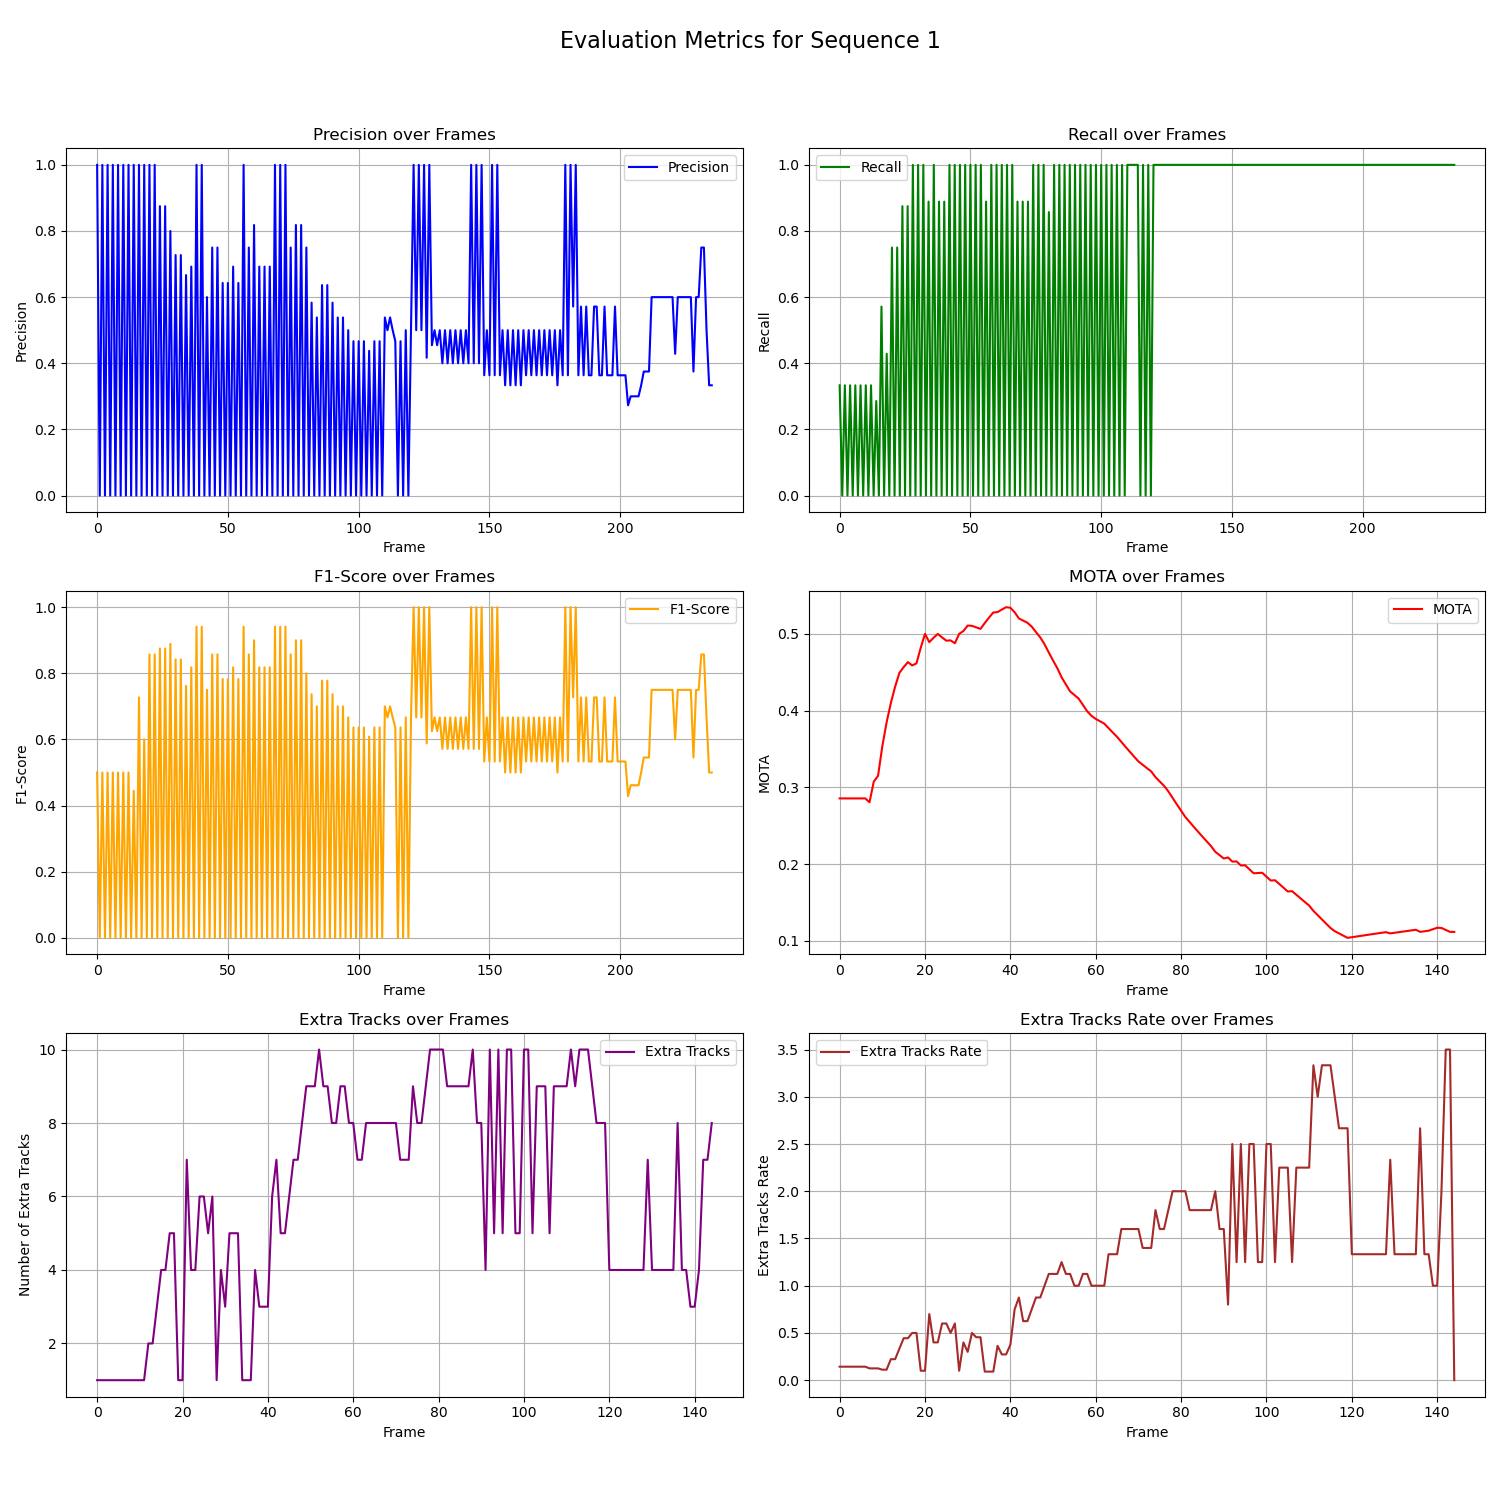
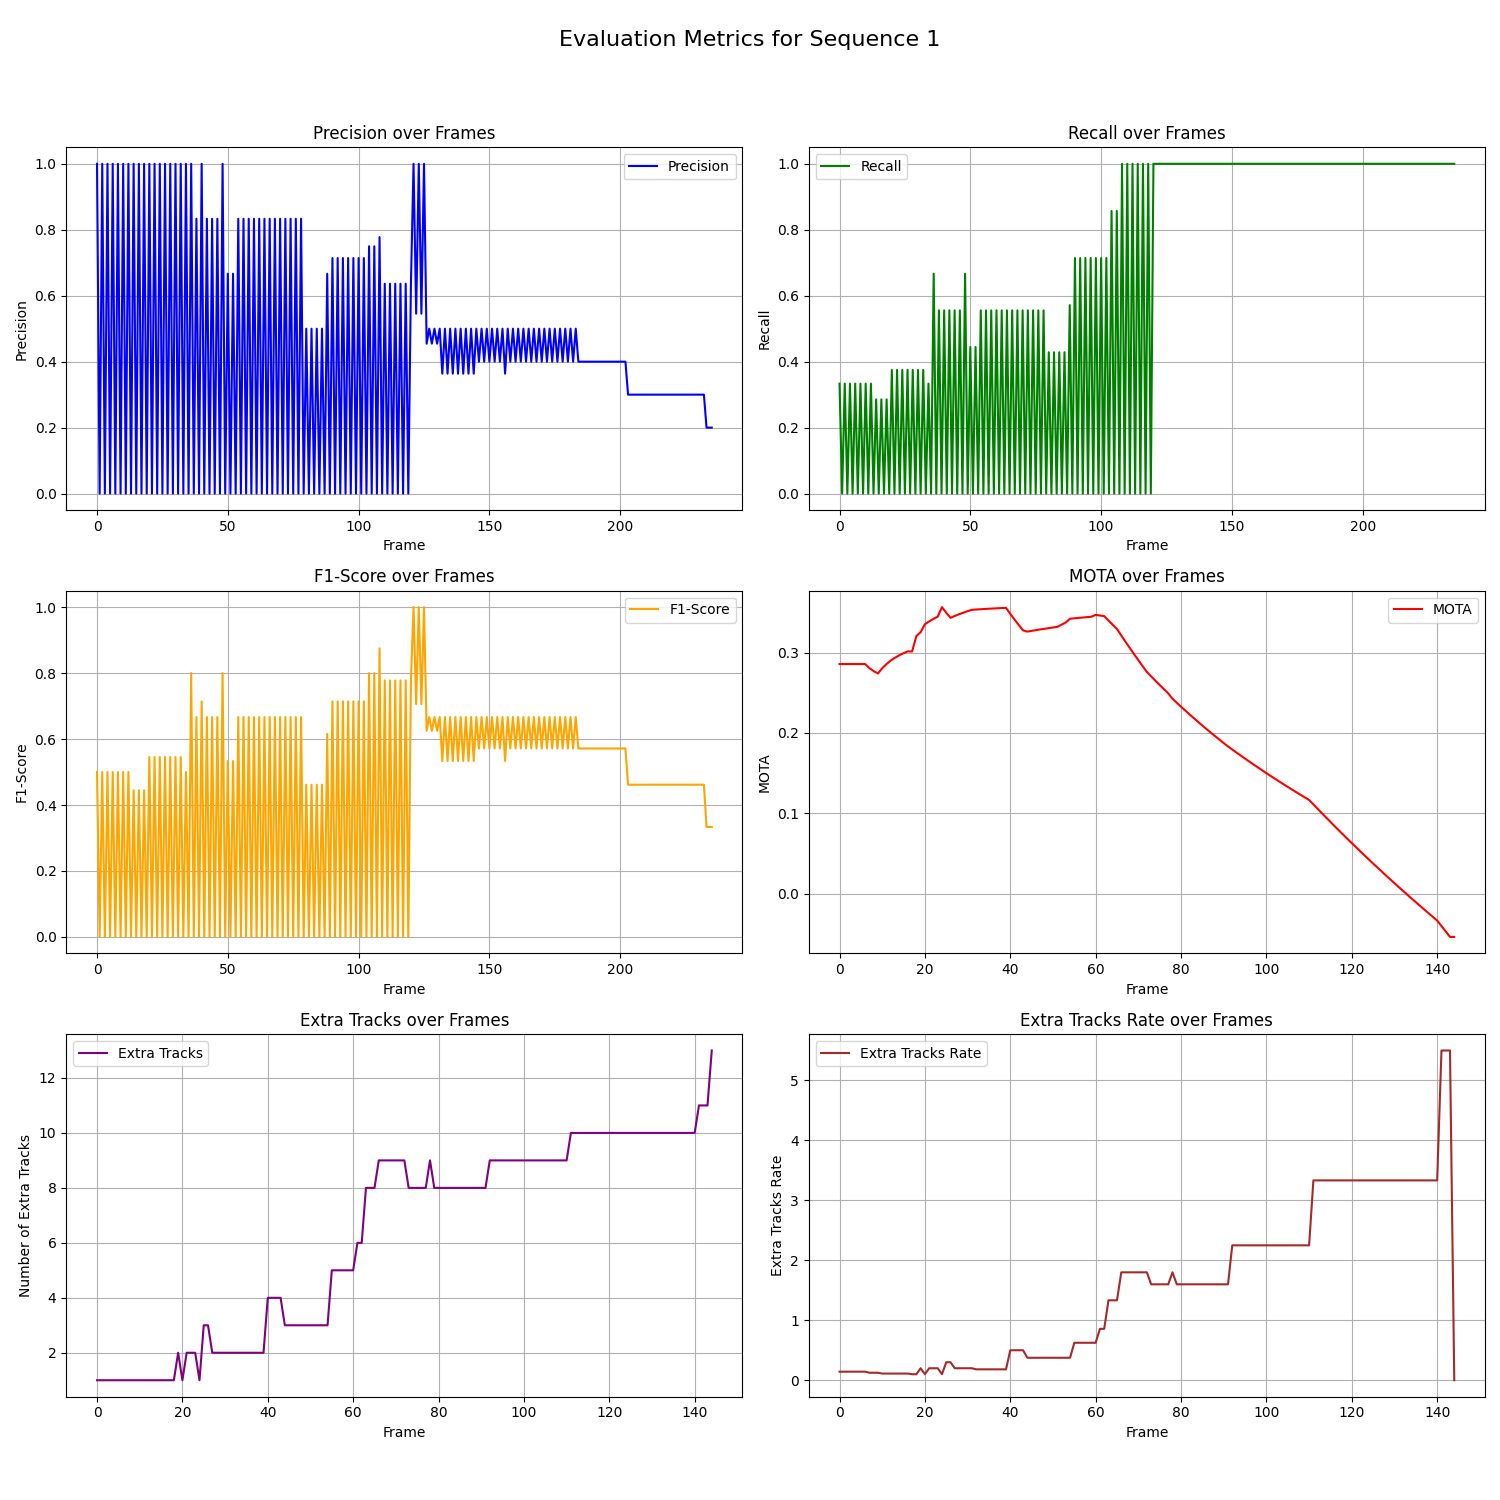
m

diff --git a/main.py b/main.py
@@ -123,8 +123,6 @@ def run(config_path: str) -> None:
 
     # Iterate over each sequence
     for seq_id, frames in data.items():
-        if seq_id == "1":
-            continue
         logger.info(f"Processing sequence {seq_id} with {len(frames)} frames.")
         evaluator.reset()
         tracker_pedastrians.reset()

diff --git a/src/tracking/tune.py b/src/tracking/tune.py
@@ -553,7 +553,7 @@ def main():
     parser.add_argument(
         "--n_trials",
         type=int,
-        default=5000,
+        default=1000,
         help="Number of hyperparameter optimization trials",
     )
     parser.add_argument(
